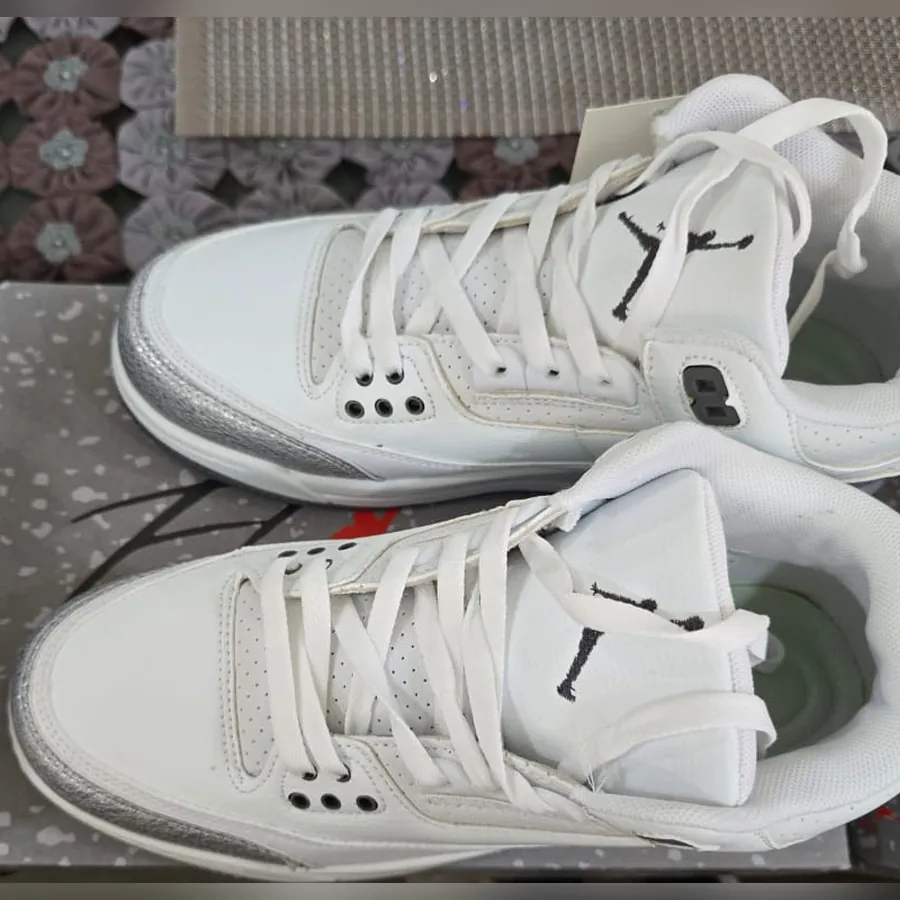
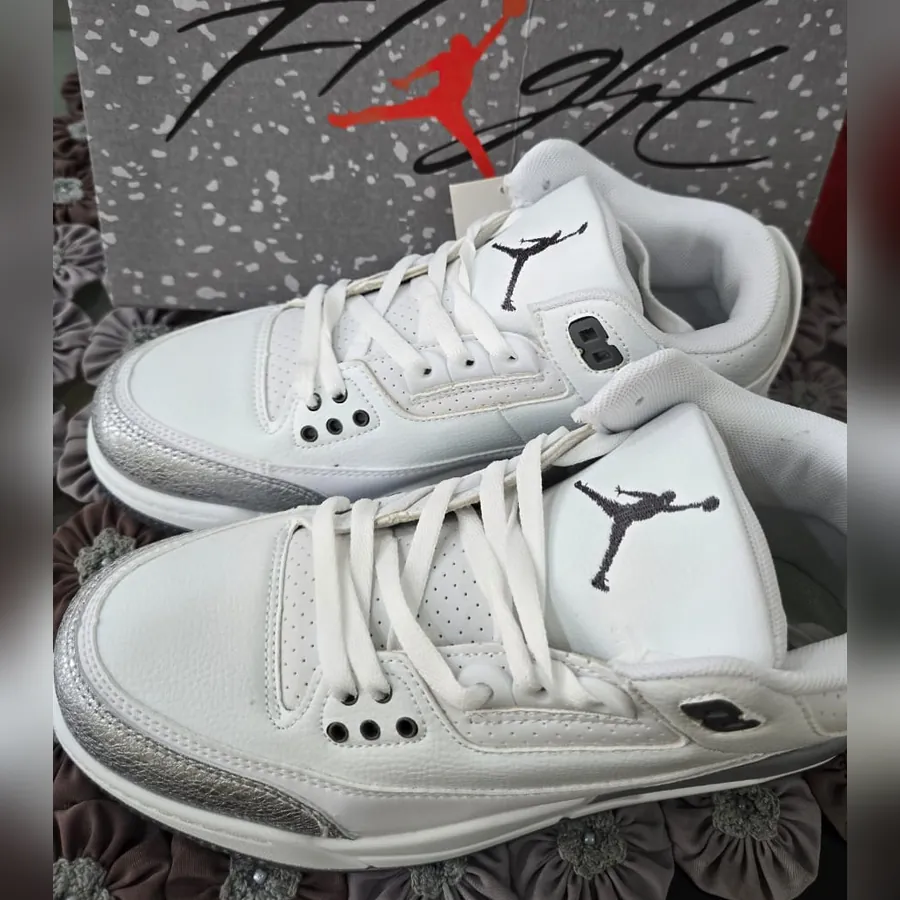
Más fotos de los Air Jordan 3 y modelos exactos de los Nike
- Air Jordan 3 blanco: 3 fotos; Air Jordan 3 negro: 5 fotos
  (recortadas para que no salgan etiquetas de caja).
- Nike Air Max Dn blanco, talla EU 42.
- Metcon blanco y goma, talla EU 43, en la nueva categoría Training.

diff --git a/js/productos.js b/js/productos.js
@@ -28,14 +28,21 @@ window.PRODUCTOS = [
     color: "Blanco / Plata",
     descripcion: "El clásico Air Jordan 3 en blanco, con estampado tipo elefante plateado en la puntera y el talón.",
     detalles: ["Caña media", "Estampado tipo elefante plateado", "Jumpman negro en la lengüeta"],
-    imagenes: ["img/productos/air-jordan-3-blanco-plata-1.webp"],
+    imagenes: [
+      "img/productos/air-jordan-3-blanco-plata-1.webp", "img/productos/air-jordan-3-blanco-plata-2.webp",
+      "img/productos/air-jordan-3-blanco-plata-3.webp",
+    ],
   },
   {
     id: "air-jordan-3-negro", marca: "Jordan", nombre: "Air Jordan 3 Negro", categoria: "Basketball", precio: null,
     color: "Negro",
     descripcion: "Air Jordan 3 todo negro con costuras blancas en contraste.",
     detalles: ["Acabado tipo nobuk negro", "Costuras blancas en contraste", "Jumpman blanco en la lengüeta"],
-    imagenes: ["img/productos/air-jordan-3-negro-1.webp"],
+    imagenes: [
+      "img/productos/air-jordan-3-negro-1.webp", "img/productos/air-jordan-3-negro-2.webp",
+      "img/productos/air-jordan-3-negro-3.webp", "img/productos/air-jordan-3-negro-4.webp",
+      "img/productos/air-jordan-3-negro-5.webp",
+    ],
   },
   {
     id: "on-cloudmonster-gris", marca: "Estilo On", nombre: "Cloudmonster Gris Claro", categoria: "Running", precio: null,
@@ -55,17 +62,17 @@ window.PRODUCTOS = [
     imagenes: ["img/productos/on-cloudsurfer-blanco-negro-1.webp", "img/productos/on-cloudsurfer-blanco-negro-2.webp"],
   },
   {
-    id: "nike-air-max-blanco", marca: "Nike", nombre: "Air Max Blanco", categoria: "Lifestyle", precio: null,
-    color: "Blanco",
-    descripcion: "Nike Air Max blanco de malla, con cámaras de aire visibles en la suela.",
-    detalles: ["Parte superior de malla", "Insignia Air en la lengüeta", "Cámaras de aire visibles"],
+    id: "nike-air-max-blanco", marca: "Nike", nombre: "Air Max Dn Blanco", categoria: "Lifestyle", precio: null,
+    color: "Blanco", tallas: [42],
+    descripcion: "Nike Air Max Dn blanco de malla, con cuatro cámaras de aire visibles en la suela.",
+    detalles: ["Parte superior de malla", "Insignia Air Max Dn en la lengüeta", "Cámaras de aire visibles en la suela", "Talla EU 42 (US 8.5)"],
     imagenes: ["img/productos/nike-air-max-blanco-1.webp"],
   },
   {
-    id: "nike-blanco-cafe", marca: "Nike", nombre: "Blanco y Café", categoria: "Lifestyle", precio: null,
-    color: "Blanco / Café",
-    descripcion: "Nike blanco de perfil grueso, con detalles en café y suela tipo goma.",
-    detalles: ["Detalles en tono café", "Plantilla con logo Nike", "Suela tipo goma"],
+    id: "nike-blanco-cafe", marca: "Estilo Nike", nombre: "Metcon Blanco y Goma", categoria: "Training", precio: null,
+    color: "Blanco / Café", tallas: [43],
+    descripcion: "Zapato de entrenamiento blanco, con suela tipo goma y detalles en café.",
+    detalles: ["Suela tipo goma con agarre", "Detalles en tono café", "Diseño inspirado en el Nike Metcon"],
     imagenes: ["img/productos/nike-blanco-cafe-1.webp"],
   },
   {
